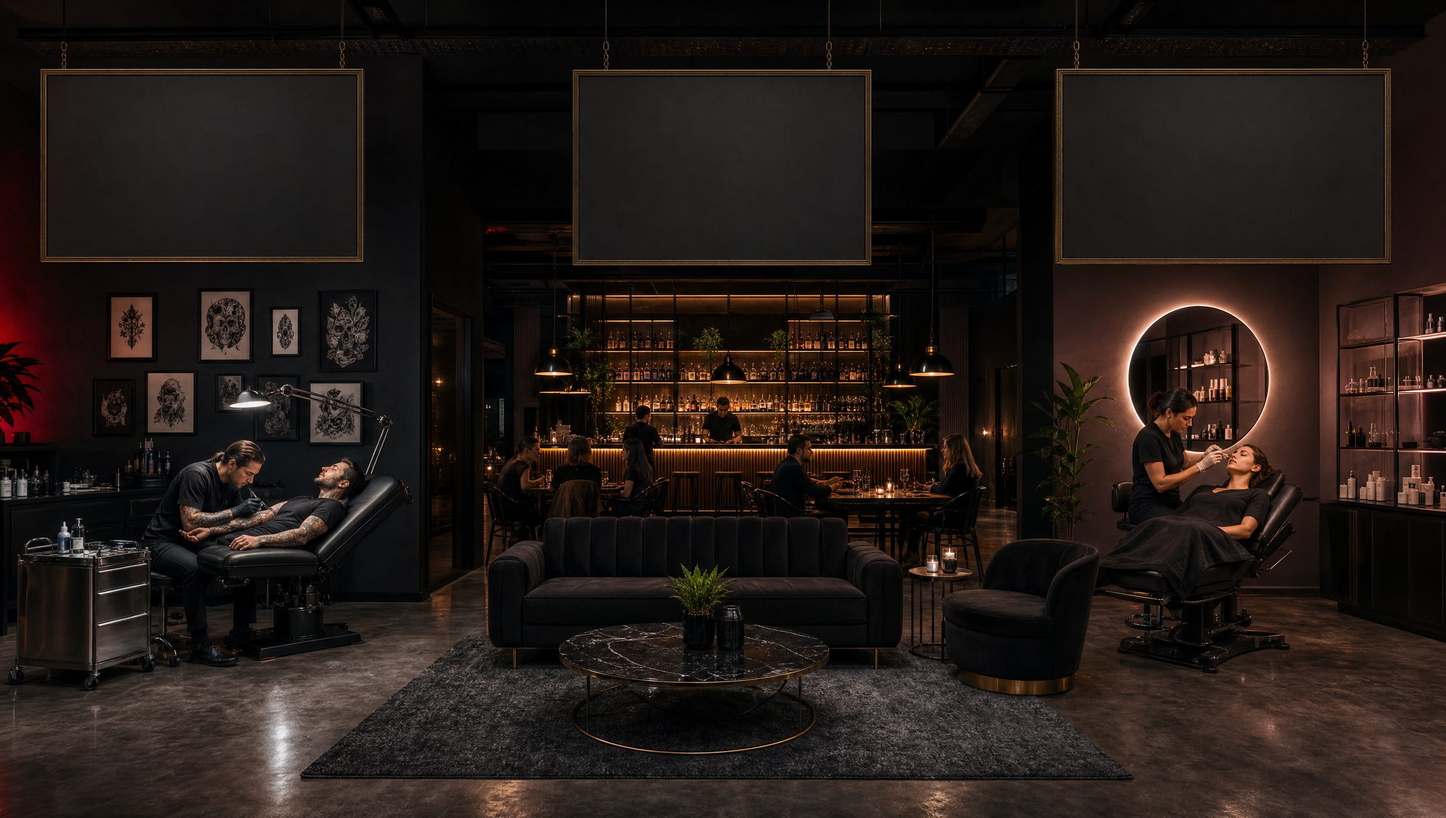
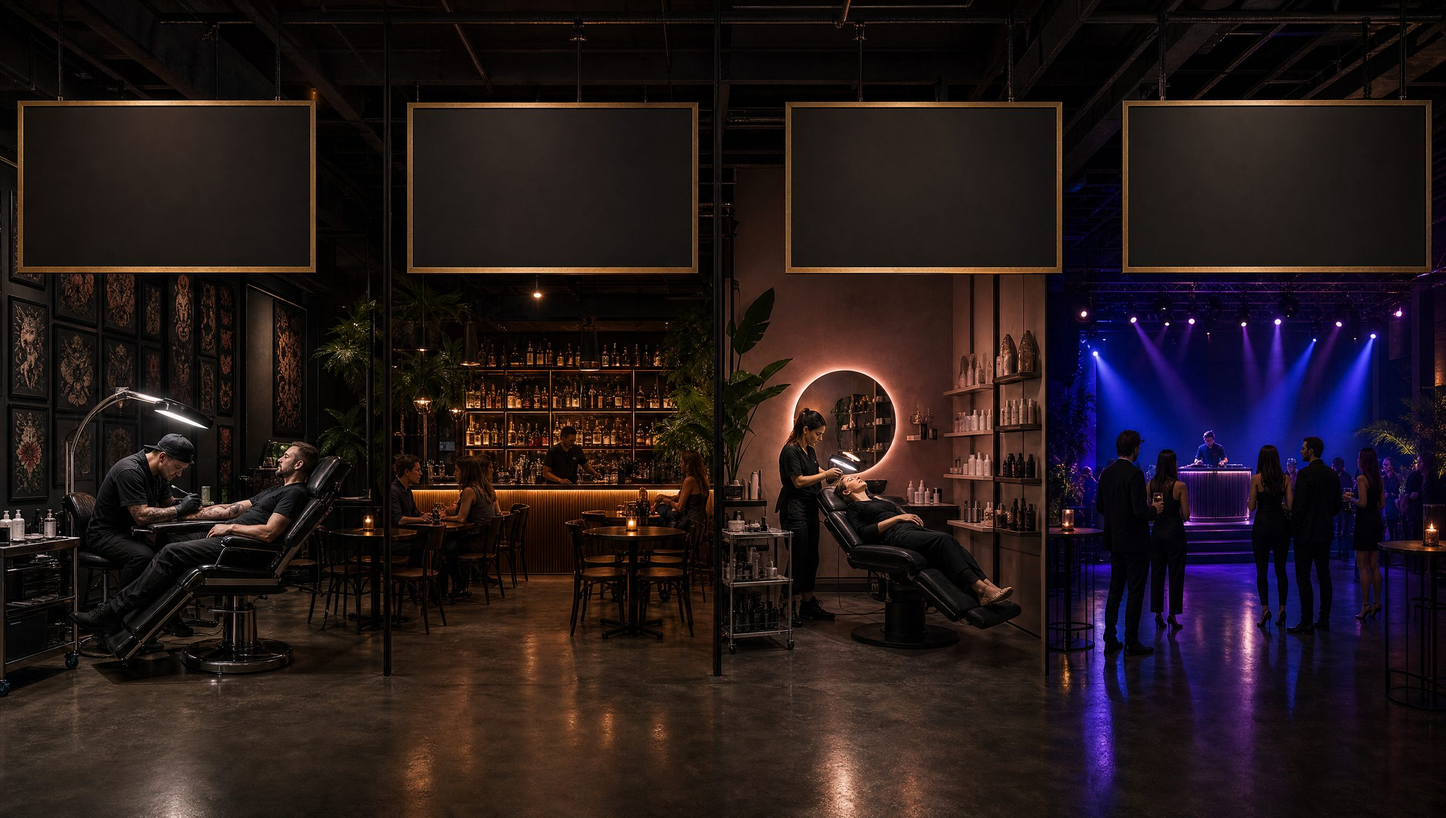
feat(brands): add Event as the fourth brand and a room that fits it
The hero picture had exactly three painted signs, so a fourth brand would
have switched the portal off and fallen back to the panel row. The room is
therefore regenerated with four zones: tattoo, bar, beauty, and a stage with
a DJ booth for Event. Zone and sign geometry is measured against the new
picture.

Event runs at St. Margrethen through Riverside Event GmbH and gets its own
hub page, nav entry and zone.

Its mark is a placeholder: the shield without the banderole, tinted in the
stage light of its zone. Fitting "EVENT" into the curved banderole of a
sibling mark only produced garbled lettering, and a wrong name on a crest is
worse than a neutral shape. Swap the file once the real logo arrives.

diff --git a/css/styles.css b/css/styles.css
@@ -169,9 +169,10 @@ a{color:inherit;text-decoration:none}
 .portal__veil{position:absolute;inset:0;z-index:1;pointer-events:none;background:linear-gradient(180deg,rgba(7,8,12,.34) 0%,rgba(7,8,12,0) 17%,rgba(7,8,12,0) 45%,rgba(7,8,12,.93) 100%)}
 
 .zone{position:absolute;top:0;bottom:0;z-index:3;display:block;color:#fff;-webkit-tap-highlight-color:transparent}
-.zone[data-brand="ink"]{left:0;width:33.5%}
-.zone[data-brand="gastro"]{left:33.5%;width:33%}
-.zone[data-brand="beauty"]{left:66.5%;width:33.5%}
+.zone[data-brand="ink"]{left:0;width:25%}
+.zone[data-brand="gastro"]{left:25%;width:27%}
+.zone[data-brand="beauty"]{left:52%;width:24%}
+.zone[data-brand="event"]{left:76%;width:24%}
 .zone__shot{display:none}
 
 /* Der Dimmer liegt bewusst ueber Wappen und Beschriftung: sonst leuchten die
@@ -186,14 +187,16 @@ a{color:inherit;text-decoration:none}
    vermessenen Prozentwerte des Schildes gueltig, auch wenn die Szene unten
    beschnitten wird. Verhaeltnis = Zonenbreite x Bildseitenverhaeltnis. */
 .zone__signwrap{position:absolute;top:0;left:0;width:100%;z-index:3;pointer-events:none}
-.zone[data-brand="ink"] .zone__signwrap{aspect-ratio:.5925}
-.zone[data-brand="gastro"] .zone__signwrap{aspect-ratio:.5836}
-.zone[data-brand="beauty"] .zone__signwrap{aspect-ratio:.5925}
+.zone[data-brand="ink"] .zone__signwrap{aspect-ratio:.4421}
+.zone[data-brand="gastro"] .zone__signwrap{aspect-ratio:.4775}
+.zone[data-brand="beauty"] .zone__signwrap{aspect-ratio:.4244}
+.zone[data-brand="event"] .zone__signwrap{aspect-ratio:.4244}
 
 .zone__sign{position:absolute;z-index:3;display:grid;place-items:center;transition:filter .5s var(--ease),transform .6s var(--ease)}
-.zone[data-brand="ink"] .zone__sign{left:8.4%;top:8.42%;width:66.4%;height:23.49%}
-.zone[data-brand="gastro"] .zone__sign{left:19.6%;top:8.55%;width:61.3%;height:23.75%}
-.zone[data-brand="beauty"] .zone__sign{left:19.7%;top:8.42%;width:68.7%;height:23.16%}
+.zone[data-brand="ink"] .zone__sign{left:4.92%;top:12.83%;width:82.28%;height:19.80%}
+.zone[data-brand="gastro"] .zone__sign{left:11.70%;top:13.09%;width:74.26%;height:20.20%}
+.zone[data-brand="beauty"] .zone__sign{left:9.79%;top:13.03%;width:79.38%;height:20.26%}
+.zone[data-brand="event"] .zone__sign{left:6.83%;top:12.76%;width:87.58%;height:19.87%}
 
 /* Das Wappen als Maske, nicht als Bild: so traegt jede Marke ihren eigenen
    Ton und kann beim Aufleuchten die Farbe wechseln. */
@@ -201,12 +204,16 @@ a{color:inherit;text-decoration:none}
 .zone[data-brand="ink"] .zone__mark{--tint:#efe9df;-webkit-mask-image:url(../assets/brand/mark-ink.png);mask-image:url(../assets/brand/mark-ink.png)}
 .zone[data-brand="gastro"] .zone__mark{--tint:#d8b25f;-webkit-mask-image:url(../assets/brand/mark-gastro.png);mask-image:url(../assets/brand/mark-gastro.png)}
 .zone[data-brand="beauty"] .zone__mark{--tint:#e9c4ca;-webkit-mask-image:url(../assets/brand/mark-beauty.png);mask-image:url(../assets/brand/mark-beauty.png)}
+/* Platzhalter: die Wappenform ohne Banderole, im Ton des Buehnenlichts.
+   Wird ersetzt, sobald das echte Event-Logo vorliegt. */
+.zone[data-brand="event"] .zone__mark{--tint:#b9c4f2;-webkit-mask-image:url(../assets/brand/mark-event.png);mask-image:url(../assets/brand/mark-event.png)}
 
 .zone.is-active .zone__sign{transform:translateY(-2px)}
 .zone.is-active .zone__mark{opacity:1}
 .zone.is-active[data-brand="ink"] .zone__sign{filter:drop-shadow(0 0 30px rgba(239,233,223,.4))}
 .zone.is-active[data-brand="gastro"] .zone__sign{filter:drop-shadow(0 0 30px rgba(216,178,95,.5))}
 .zone.is-active[data-brand="beauty"] .zone__sign{filter:drop-shadow(0 0 30px rgba(233,196,202,.45))}
+.zone.is-active[data-brand="event"] .zone__sign{filter:drop-shadow(0 0 30px rgba(185,196,242,.5))}
 
 .zone__body{position:absolute;left:0;right:0;bottom:6%;z-index:4;text-align:center;padding:0 20px;transition:transform .55s var(--ease)}
 .zone.is-active .zone__body{transform:translateY(-6px)}
@@ -341,6 +348,7 @@ a{color:inherit;text-decoration:none}
   .zone[data-brand="ink"] .zone__sign{filter:drop-shadow(0 0 18px rgba(239,233,223,.3))}
   .zone[data-brand="gastro"] .zone__sign{filter:drop-shadow(0 0 18px rgba(216,178,95,.38))}
   .zone[data-brand="beauty"] .zone__sign{filter:drop-shadow(0 0 18px rgba(233,196,202,.34))}
+  .zone[data-brand="event"] .zone__sign{filter:drop-shadow(0 0 18px rgba(185,196,242,.38))}
 
   .zone__body{position:relative;left:auto;right:auto;bottom:auto;flex:1;min-width:0;text-align:left;padding:0;transform:none}
   .zone__name,.zone.is-active .zone__name{font-size:clamp(22px,6vw,30px)}

diff --git a/js/main.js b/js/main.js
@@ -103,7 +103,7 @@
 
   // Zoomziel je Marke, in Prozent des Bildes: die Fahrt soll auf der Handlung
   // landen, nicht auf dem Schild darüber.
-  var TARGET = { ink: '16% 58%', gastro: '50% 52%', beauty: '82% 55%' };
+  var TARGET = { ink: '12% 60%', gastro: '38% 55%', beauty: '64% 58%', event: '88% 55%' };
 
   function focus(zone) {
     if (diving) return;
